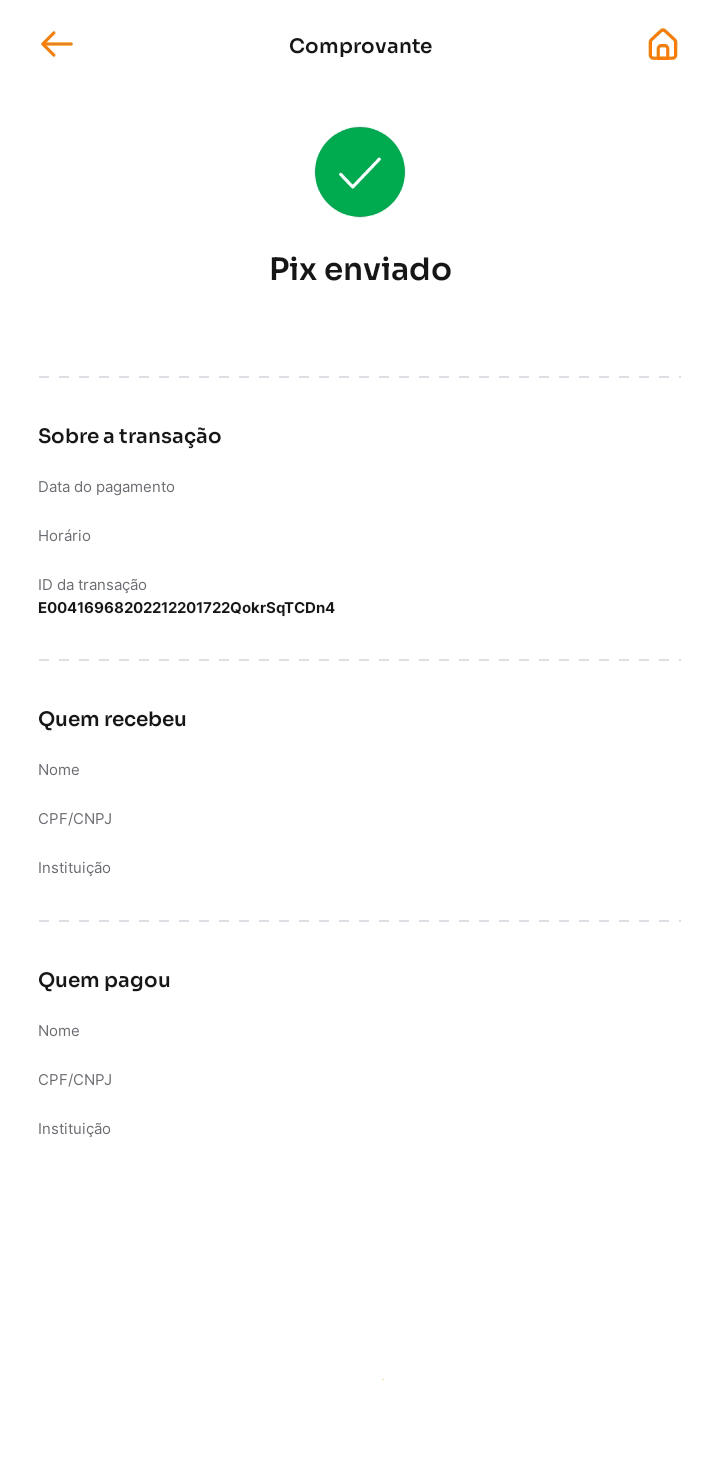
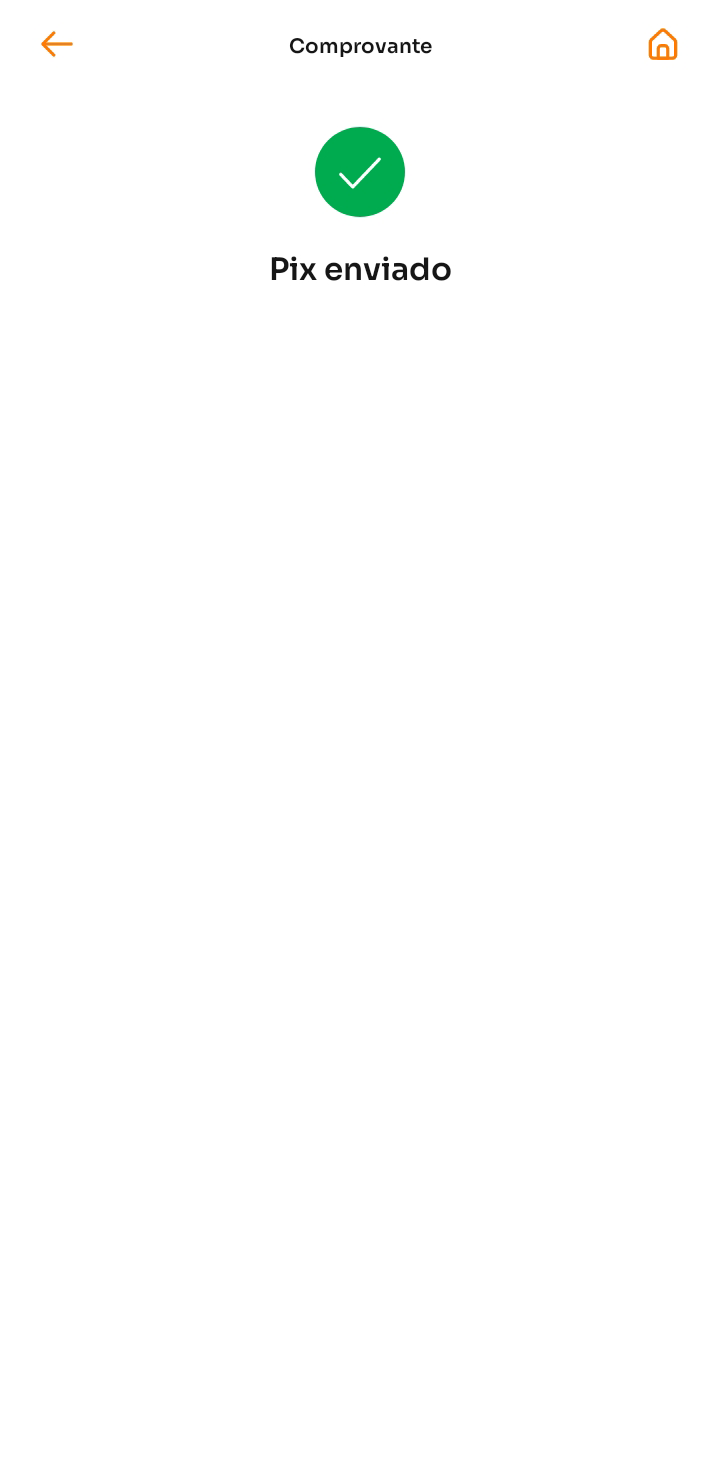
up

diff --git a/comprovante.html b/comprovante.html
@@ -21,46 +21,60 @@
         <p id="valor">R$ 0,01</p>
     </div>
 
-    <div class="containerinfos">
-        <span class="containerSpan">
+
+    <img class="pontilhado pontilhado1" src="img/imgComprovante/pontilhado.png" alt="">
+
+    <div class="bloco1 bloco">
+        <p class="titleH1">Sobre a transação</p>
+        <span>
             <p class="title">Data do pagamento</p>
-            <p id="dataCompleta">Terça, 20/12/2022</p>
+            <p class="info" id="dataCompleta">Terça, 20/12/2022</p>
         </span>
-        <span class="containerSpan">
+        <span>
             <p class="title">Horário</p>
-            <p id="hora">14h22</p>
+            <p class="info" id="hora">14h22</p>
+        </span>
+        <p class="title">ID da transação</p>
+        <p class="info" >E0041352352523535235QokSqTCDn4</p>
+    </div>
+
+    <img class="pontilhado pontilhado2" src="img/imgComprovante/pontilhado.png" alt="">
+
+    <div class="bloco2 bloco">
+        <p class="titleH1">Quem recebeu</p>
+        <span>
+            <p class="title">Nome</p>
+            <p class="info" id="vitName">Ana Andreia Jerusaleno Mesquita</p>
+        </span>
+        <span>
+            <p class="title">CPF/CNPJ</p>
+            <p class="info" id="cpf">***.858.957-**</p>
+        </span>
+        <span>
+            <p class="title">Instituição</p>
+            <p class="info" id="banco">Picpay</p>
         </span>
     </div>
 
-    <div class="containerinfos2 containerinfosMeio">
-        <span class="containerSpan">
+    <img class="pontilhado pontilhado3" src="img/imgComprovante/pontilhado.png" alt="">
+
+    <div class="bloco3 bloco">
+        <p class="titleH1">Quem pagou</p>
+        <span>
             <p class="title">Nome</p>
-            <p id="vitName">Ana Andreia Jerusaleno Mesquita</p>
+            <p class="info" id="myName">Ana Andreia Jerusaleno Mesquita</p>
         </span>
-        <span class="containerSpan">
+        <span>
             <p class="title">CPF/CNPJ</p>
-            <p id="cpf">***.858.957-**</p>
+            <p class="info" id="myCpf">***.858.957-**</p>
         </span>
-        <span class="containerSpan">
+        <span>
             <p class="title">Instituição</p>
-            <p id="banco">Picpay</p>
+            <p class="info" >Banco Inter S.A.</p>
         </span>
     </div>
 
-    <div class="containerinfos2">
-        <span class="containerSpan">
-            <p class="title">Nome</p>
-            <p id="myName">Ana Andreia Jerusaleno Mesquita</p>
-        </span>
-        <span class="containerSpan">
-            <p class="title">CPF/CNPJ</p>
-            <p id="myCpf">***.858.957-**</p>
-        </span>
-        <span class="containerSpan">
-            <p class="title">Instituição</p>
-            <p>Banco Inter S.A.</p>
-        </span>
-    </div>
+
 
     <footer><button class="compartBtn">Compartilhar comprovante</button></footer>
 

diff --git a/comprovante.css b/comprovante.css
@@ -21,37 +21,51 @@ header{
 }
 .containerValor{
     text-align: center;
-    margin: 125px 0px 10px 0px;
+    margin: 125px 0px 0px 0px;
 }
-.containerinfos,
-.containerinfos2{
-    text-align: end;
-    margin: 0px 24px;
-    font-size: 12px;
-    font-family: Arial, Helvetica, sans-serif;
+#valor{
+    font-size: 22px;
     font-weight: bold;
 }
-.containerinfos{
-    margin-top: 85px;
+.bloco{
+    margin: 0px 24px;
 }
-.containerinfos2{
-    margin-top: 0px;
-    margin-bottom: 64px;
+.bloco span{
+    display: flex;
+    align-items: center;
+    justify-content: space-between;
+    margin-bottom: 16px;
+}
+.pontilhado{
+    opacity: .5;
+    margin-bottom: 13px;
+}
+.pontilhado1{
+    margin-top: 13px;
+}
+.titleH1{
+    font-size: 14px;
+    margin-bottom: 14px;
+}
+.title{
+    font-size: 12px;
+    opacity: .9;
+}
+.info{
+    font-size: 12px;
+    font-weight: bold;
+}
+.pontilhado2{
+    margin-top: 15px;
+}
 
-}
-.containerinfosMeio{
-    margin-top: 110px;
-    margin-bottom: 64px;
-}
-.containerinfos p,
-.containerinfos2 p{
-        margin-bottom: 19px;
-}
 footer{
     text-align: center;
+    position: absolute;
+    width: 720px;
+    bottom: 5px;
 }
 .compartBtn{
-    margin: 58px 10px 10px 10px;
     padding: 15px 131px;
     border: none;
     background-color: #ff7a01;
@@ -59,19 +73,4 @@ footer{
     font-size: 12px;
     border-radius: 6px;
     font-weight: 600;
-}
-#dataCompleta {
-    padding-top: 3px;
-}
-#valor{
-    font-size: 22px;
-    font-weight: bold;
-}
-.containerSpan{
-    display: flex;
-    justify-content: space-between;
-}
-.title{
-    color: black;
-    opacity: .8;
 }
